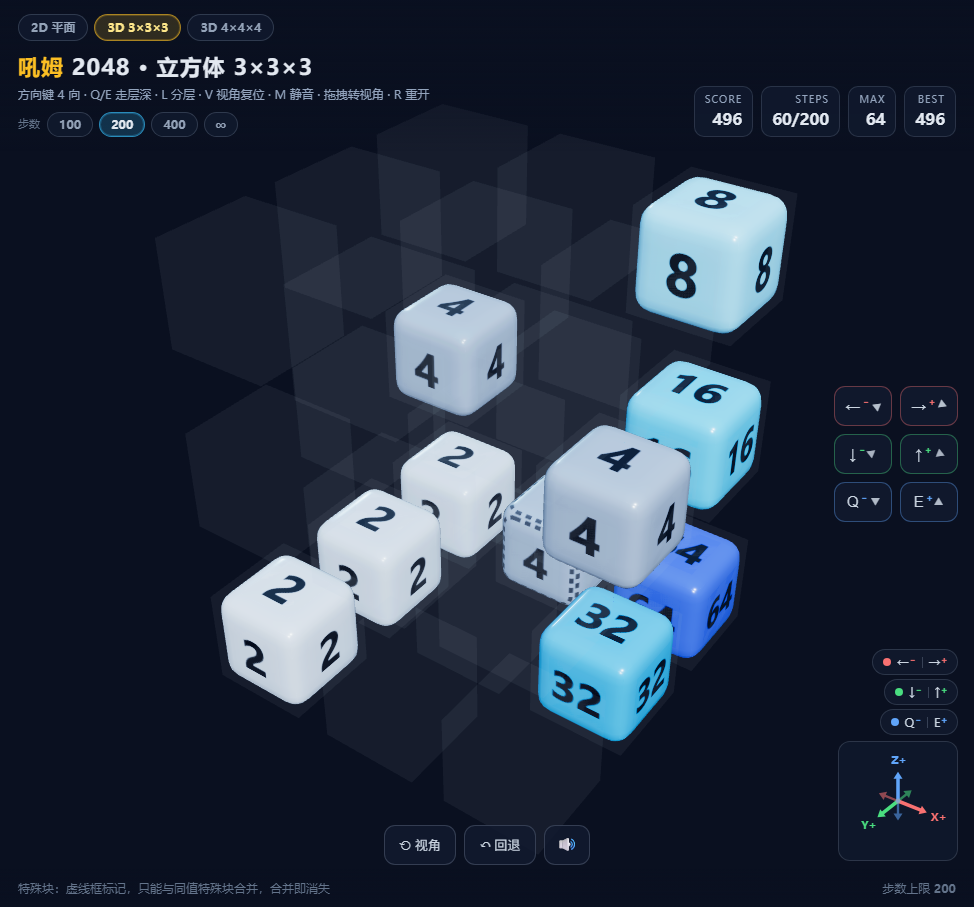
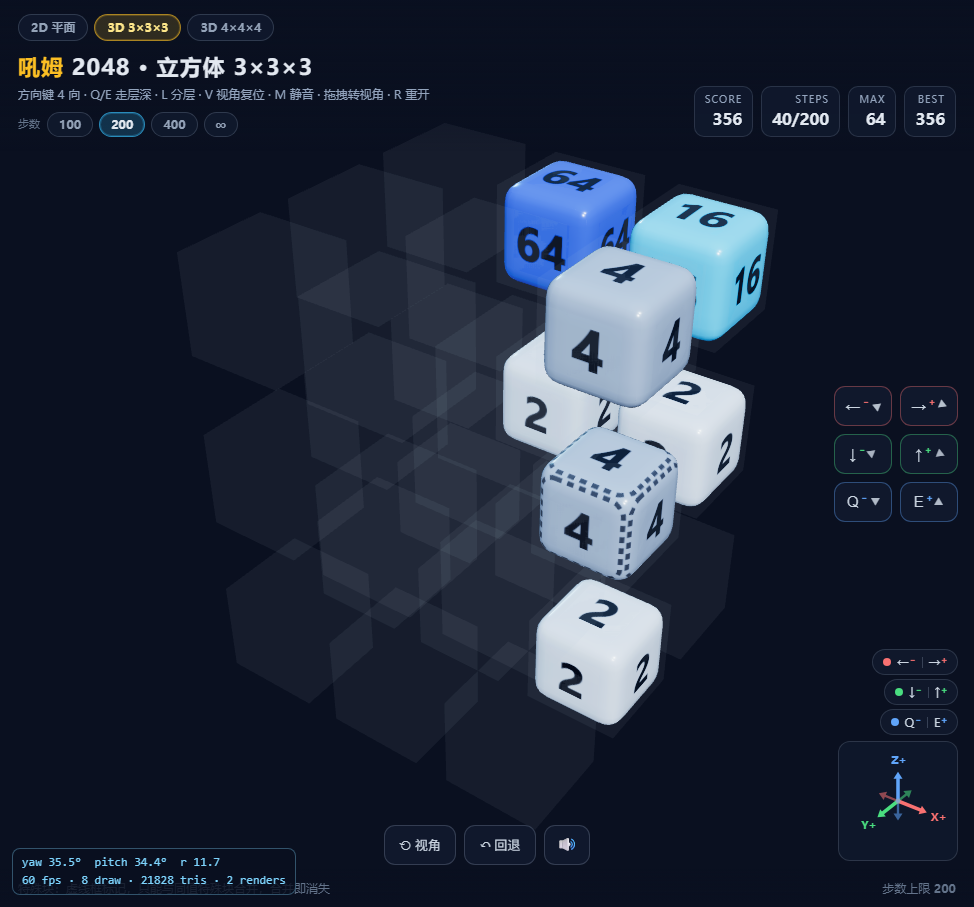
feat: 手机端适配
- 窄屏改成竖排标题栏、状态卡铺满一行、隐藏坐标轴与轴徽章、六向按钮挪到右下
- 相机按屏幕比例自动算距离：把棋盘八个角投影到 NDC 迭代反推，竖屏对 4 个朝向取最坏值
- 修一个真 bug：explode 声明晚于第一次 applyCam，TDZ 导致整页白屏（fitRadius 引用了它）
- 2D 棋盘在手机上放大到 88vw

Changed region(s): [[0.2156, 0.1544, 0.8316, 0.8335], [0.0, 0.9261, 0.308, 0.9879], [0.924, 0.1235, 0.9548, 0.1544]]

diff --git a/game3d.js b/game3d.js
@@ -65,6 +65,8 @@
     // 画面瞬间转 180°（拖到顶/底时“直接变方向”）。
     const TARGET = new THREE.Vector3(0, 0, 0)
     let camRadius = N >= 4 ? 13.5 : 11
+    let manualZoom = false      // 用户滚轮缩放过之后，不再被自动 fitRadius 覆盖
+    let explode = EXPLODE_GAP   // 分层间距（fitRadius 会用到，必须早于第一次 applyCam）
     const cam = { yaw: 0.62, pitch: 0.6 }
     // 视角可由查询串固定，便于按角度复现（?yaw=0.62&pitch=-0.6&radius=11）
     {
@@ -95,16 +97,68 @@
     }
     const deg = (r) => `${(r * 180 / Math.PI).toFixed(1)}°`
 
+    /** 按当前屏幕比例算出“刚好装下整个棋盘”的机位距离。
+     *  固定公式算不准：棋盘是斜着看的立方体，投影宽度随 yaw 变化，
+     *  所以直接拿八个角投影到 NDC，迭代反推距离；再对 4 个 yaw 取最坏值，
+     *  这样在手机上转视角也不会把方块顶出屏幕。 */
+    const fitCam = new THREE.PerspectiveCamera(38, 1, 0.1, 200)
+    function maxExtent (radius, yaw, shift) {
+      const cp = Math.cos(cam.pitch)
+      const sp = Math.sin(cam.pitch)
+      const cy = Math.cos(yaw)
+      const sy = Math.sin(yaw)
+      fitCam.fov = camera.fov
+      fitCam.aspect = camera.aspect
+      fitCam.updateProjectionMatrix()
+      fitCam.position.set(radius * cp * sy, radius * sp, radius * cp * cy)
+      fitCam.up.set(-sp * sy, cp, -sp * cy)
+      fitCam.lookAt(TARGET.x, TARGET.y + shift, TARGET.z)
+      fitCam.updateMatrixWorld()
+      const half = (N - 1) / 2
+      const hx = half * SPACING + TILE * 0.75
+      const hy = half * SPACING * explode + TILE * 0.75
+      let m = 0
+      for (const x of [-hx, hx]) {
+        for (const y of [-hy, hy]) {
+          for (const z of [-hx, hx]) {
+            const p = new THREE.Vector3(x, y, z).project(fitCam)
+            m = Math.max(m, Math.abs(p.x), Math.abs(p.y))
+          }
+        }
+      }
+      return m
+    }
+    function fitRadius () {
+      const shift = targetShift()
+      const portrait = camera.aspect < 1
+      const target = portrait ? 0.90 : 0.94   // 占屏幕比例，留边给阴影与描边
+      // 竖屏时转视角会让投影宽度变化很大，按 4 个 yaw 取最坏值；横屏按当前 yaw 即可，不然白缩一圈
+      const yaws = portrait ? [0, Math.PI / 4, Math.PI / 2, Math.PI * 0.75] : [0]
+      let worst = 6
+      for (const dYaw of yaws) {
+        let r = 14
+        for (let i = 0; i < 3; i++) {
+          const m = maxExtent(r, cam.yaw + dYaw, shift)
+          r = Math.min(46, Math.max(6, r * (m / target)))
+        }
+        worst = Math.max(worst, r)
+      }
+      return worst
+    }
+    // 竖屏上标题栏占掉顶部一截，把看的目标点抬高一点，棋盘就整体下移
+    const targetShift = () => (camera.aspect < 0.8 ? 0.55 : 0)
+
     function applyCam () {
       const cp = Math.cos(cam.pitch)
       const sp = Math.sin(cam.pitch)
       const cy = Math.cos(cam.yaw)
       const sy = Math.sin(cam.yaw)
+      if (!manualZoom) camRadius = fitRadius()
       camera.position.set(camRadius * cp * sy, camRadius * sp, camRadius * cp * cy)
       // up = 绕 Y 转 yaw、绕 X 转 -pitch 之后的 (0,1,0)，恒与视线垂直且单位长。
       // |pitch| < 90° 时它与 lookAt 配 (0,1,0) 的结果完全一致，只有过极点才不同。
       camera.up.set(-sp * sy, cp, -sp * cy)
-      camera.lookAt(TARGET)
+      camera.lookAt(TARGET.x, TARGET.y + targetShift(), TARGET.z)
       camera.updateMatrixWorld()
       if (debugEl) debugEl.textContent = `yaw ${deg(cam.yaw)}  pitch ${deg(cam.pitch)}  r ${camRadius.toFixed(1)}`
       if (apiRef && apiRef.onAxes) apiRef.onAxes(axesScreen())
@@ -157,7 +211,7 @@
     /* ---------- 几何与材质 ---------- */
     const geo = HomuRender.roundedBox(TILE, RADIUS, SEGMENTS)
     const matCache = new Map()
-    let explode = EXPLODE_GAP
+    // explode 必须早于第一次 applyCam()（fitRadius 要按分层高度算距离），所以提到前面声明
 
     function materialFor (value) {
       const abs = Math.abs(value)
@@ -652,10 +706,11 @@
       q: 'z-', e: 'z+', Q: 'z-', E: 'z+',
     }
 
-    /** 视角复位：回到默认机位。V 键和底部按钮共用。 */
+    /** 视角复位：回到默认机位（并交还给自动适配）。V 键和底部按钮共用。 */
     function resetView () {
       cam.yaw = 0.62
       cam.pitch = 0.6
+      manualZoom = false
       camRadius = N >= 4 ? 13.5 : 11
       applyCam()
     }
@@ -720,6 +775,7 @@
     renderer.domElement.addEventListener('pointercancel', end)
     renderer.domElement.addEventListener('wheel', (e) => {
       e.preventDefault()
+      manualZoom = true
       camRadius = Math.max(5, Math.min(26, camRadius + Math.sign(e.deltaY) * 0.6))
       applyCam()
     }, { passive: false })
@@ -727,7 +783,8 @@
       camera.aspect = innerWidth / innerHeight
       camera.updateProjectionMatrix()
       renderer.setSize(innerWidth, innerHeight)
-      requestRender()
+      // 旋转屏幕 / 拉窗口：重新按比例适配机位（用户手动缩放过就尊重用户）
+      applyCam()
     })
 
     const api = {

diff --git a/index.html b/index.html
@@ -247,6 +247,35 @@
     .boot-cube { animation: none; }
   }
 
+  /* ---- 窄屏（手机）---- */
+  @media (max-width: 720px), (max-height: 560px) {
+    header { flex-direction: column; align-items: stretch; gap: 6px; padding: 8px 10px 6px; }
+    h1 { font-size: 17px; }
+    .sub { display: none; }
+    .dims { gap: 4px; margin-bottom: 6px; flex-wrap: nowrap; }
+    .dim { padding: 3px 8px; font-size: 11px; }
+    .modes { margin-top: 5px; gap: 4px; }
+    .modes-hint { display: none; }
+    .mode { padding: 2px 9px; font-size: 11px; }
+    .stats { gap: 4px; }
+    .stat { flex: 1 1 0; padding: 3px 6px; border-radius: 8px; }
+    .stat span { font-size: 9px; letter-spacing: .04em; }
+    .stat b { font-size: 14px; }
+    /* 手机上坐标轴、轴徽章、六向按钮会和棋盘抢地方：只留按钮，挪到右下 */
+    #triad, .legend { display: none; }
+    .pad-side {
+      right: 8px; top: auto; bottom: 92px; transform: none;
+      grid-template-columns: repeat(2, 46px); gap: 6px;
+    }
+    .pad-side .dir { height: 34px; min-width: 46px; padding: 0 6px; font-size: 13px; }
+    .pad { bottom: 14px; gap: 6px; }
+    .pad .dir { height: 34px; min-width: 54px; font-size: 12px; }
+    footer { padding: 6px 10px 8px; font-size: 10px; }
+    footer span:first-child { display: none; }
+    /* 手机上棋盘尽量占满宽度，别缩成一小块 */
+    .b2 { width: min(88vw, 560px); transform: none; }
+  }
+
 </style>
 </head>
 <body data-dim="3d">

diff --git a/README.md b/README.md
@@ -111,6 +111,12 @@ node probe-cdp.mjs                 # 需要本机有 Chrome 或 Edge，可用 ED
 
 需要 WebGL（Chrome / Edge / Firefox / Safari 近两年版本均可）。移动端：平面版支持滑动手势，立方版用右侧六个方向按钮。
 
+手机上是另一套布局：标题栏收成竖排、状态卡铺满一行、坐标轴与轴徽章收起、六个方向按钮挪到右下；立方体的机位会按屏幕比例自动重算（竖屏时还会对多个朝向取最坏值，转视角也不会顶出屏幕）。
+
+| 手机 · 3×3×3 | 手机 · 4×4×4 | 手机 · 平面 |
+| --- | --- | --- |
+| ![](docs/mob-m3.png) | ![](docs/mob-m4.png) | ![](docs/mob-m2.png) |
+
 ## 许可
 
 [MIT](LICENSE)。内置的 three.js r160 同样是 MIT，见 `vendor/three.min.js` 与 LICENSE 中的第三方声明。
